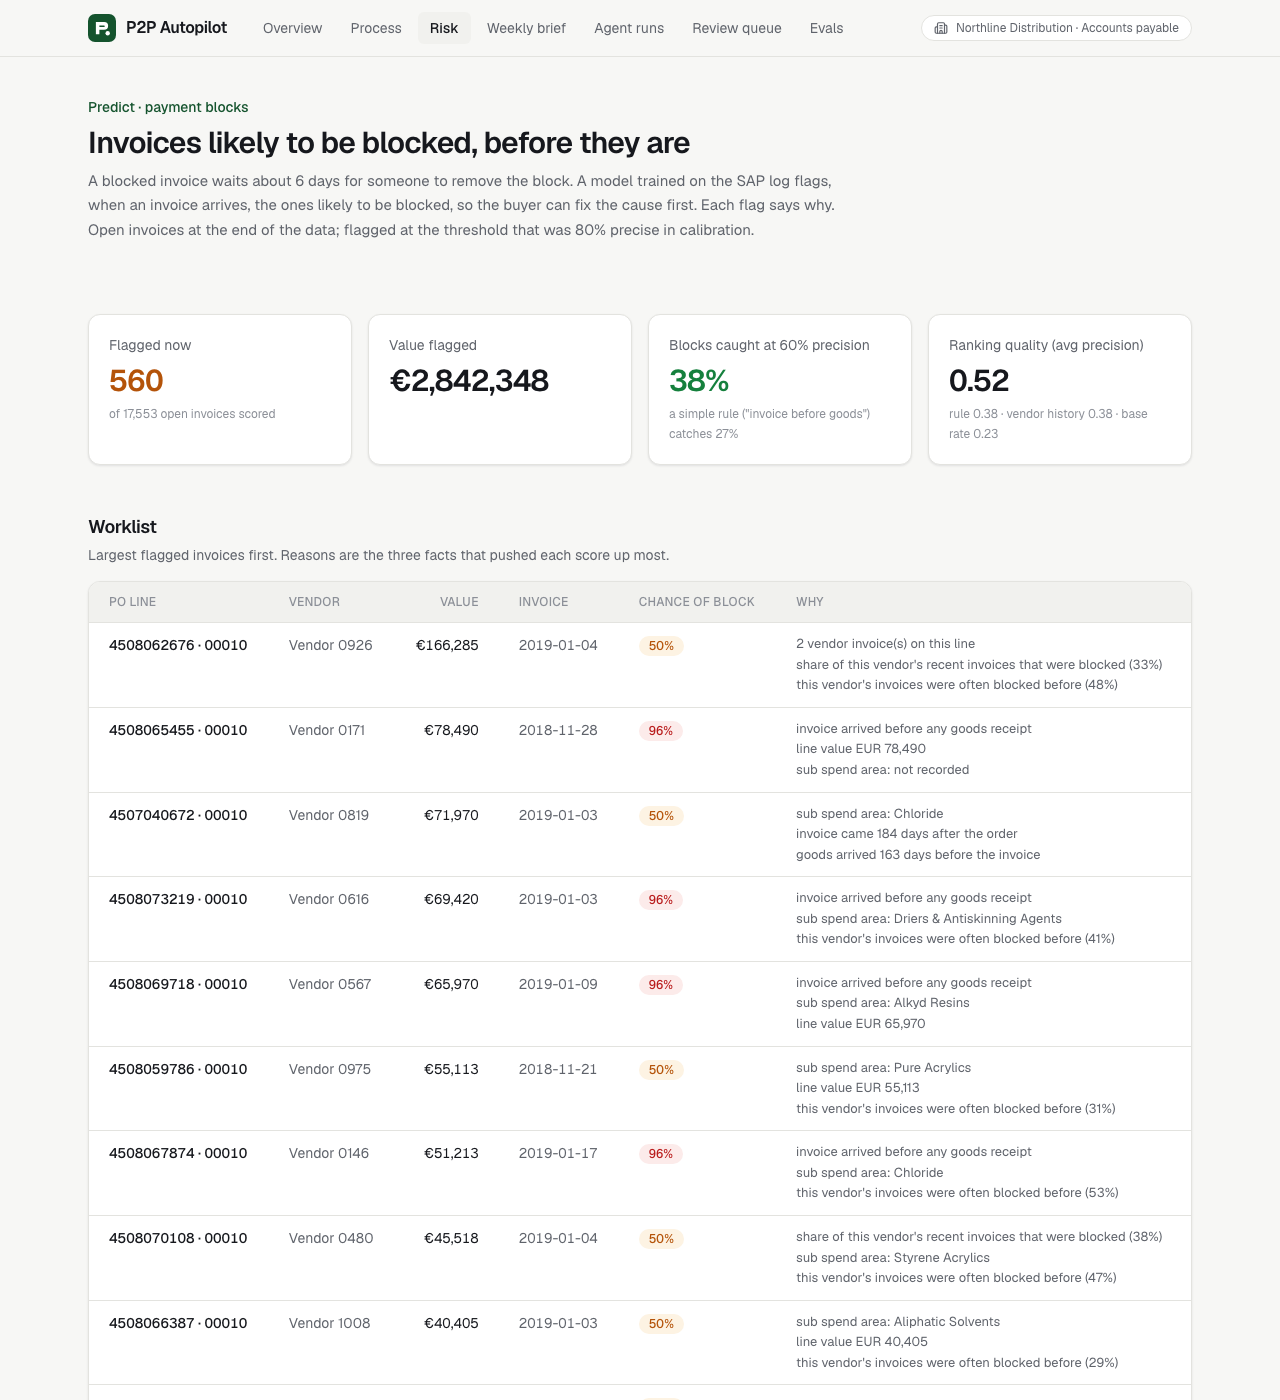
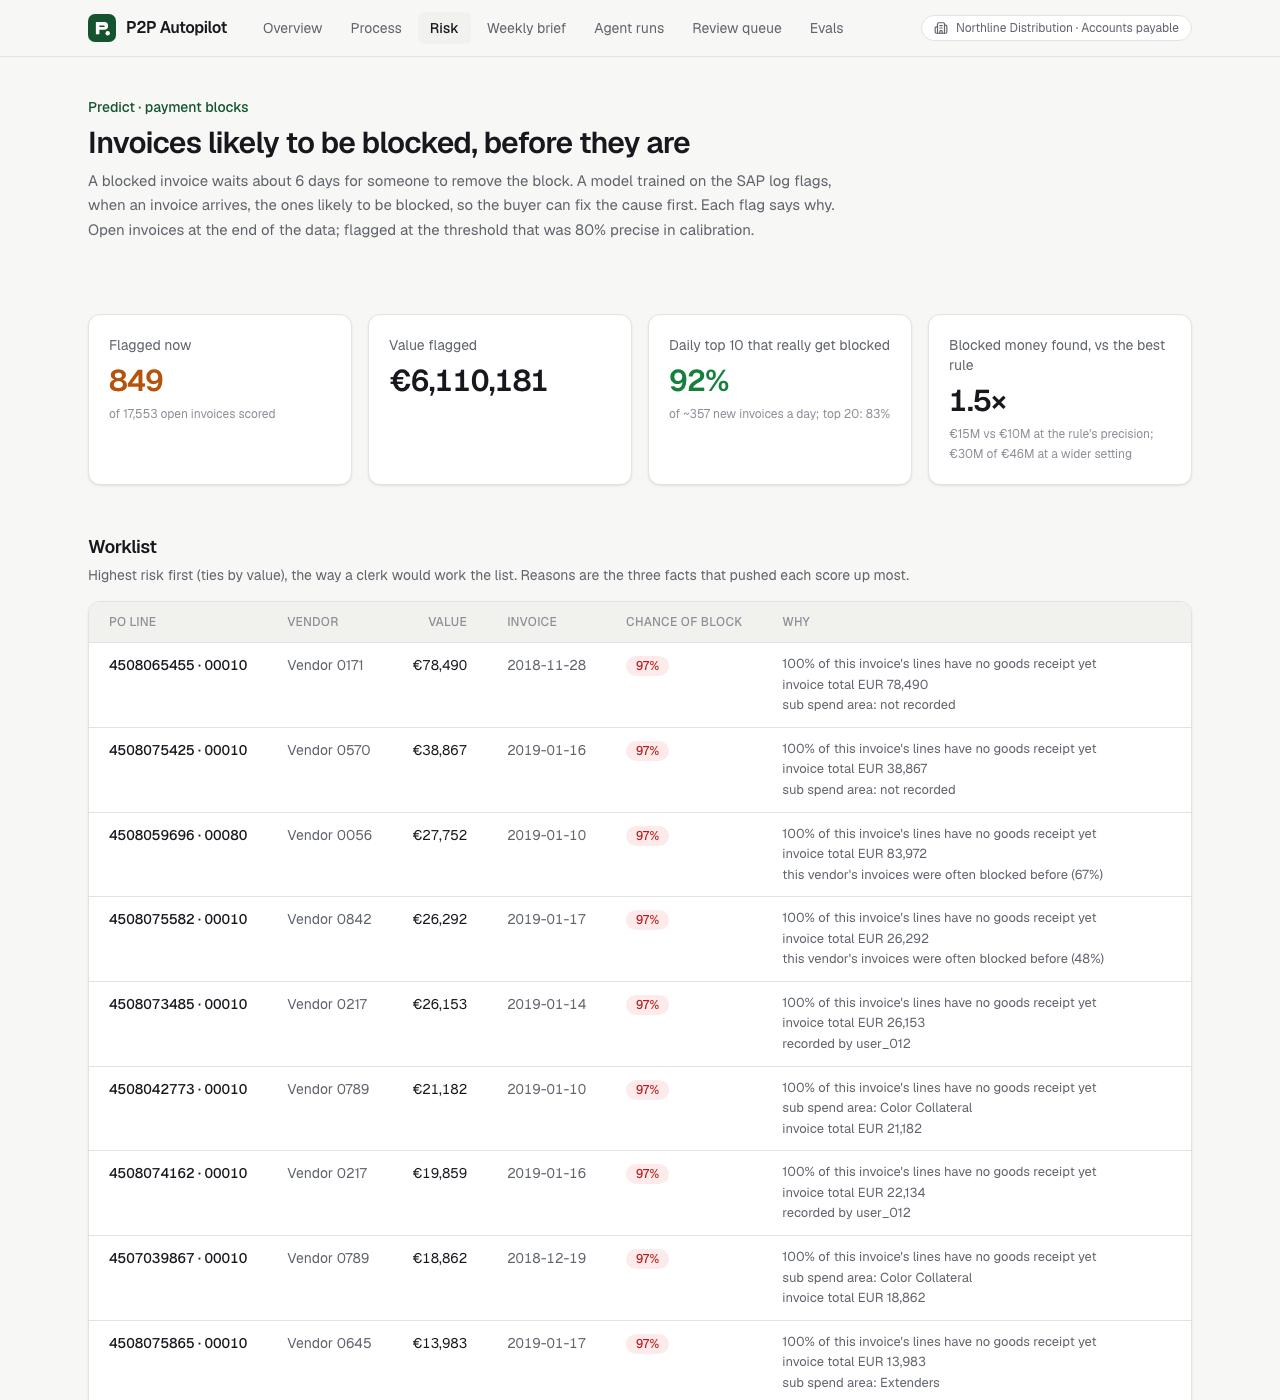
Risk page in AP's units (daily top 10, blocked EUR vs rule); worklist ranked by risk

diff --git a/web/src/app/risk/page.tsx b/web/src/app/risk/page.tsx
@@ -26,15 +26,15 @@ export default function RiskPage() {
         <Stat label="Flagged now" value={d.summary.flagged.toLocaleString()} tone="warn"
           note={`of ${d.summary.open_scored.toLocaleString()} open invoices scored`} />
         <Stat label="Value flagged" value={eur(d.summary.eur_flagged)} />
-        {m && <Stat label="Blocks caught at 60% precision" value={pct(m.model["at_precision_0.6"].recall)} tone="ok"
-          note={`the best rule ("a line on the invoice has no goods yet") catches ${pct(m.rule_invoice_before_gr["at_precision_0.6"].recall)}`} />}
-        {m && <Stat label="Ranking quality (avg precision)" value={m.model.avg_precision.toFixed(2)}
-          note={`rule ${m.rule_invoice_before_gr.avg_precision.toFixed(2)} · vendor history ${m.vendor_rate.avg_precision.toFixed(2)} · base rate ${m.base_rate.toFixed(2)}`} />}
+        {m?.business && <Stat label="Daily top 10 that really get blocked" value={pct(m.business.daily_top10_right)} tone="ok"
+          note={`of ~${Math.round(m.business.invoices_per_day)} new invoices a day; top 20: ${pct(m.business.daily_top20_right)}`} />}
+        {m?.business && <Stat label="Blocked money found, vs the best rule" value={`${(m.business.eur_model_strict / m.business.eur_rule).toFixed(1)}×`}
+          note={`${eur(m.business.eur_model_strict, true)} vs ${eur(m.business.eur_rule, true)} at the rule's precision; ${eur(m.business.eur_model_wide, true)} of ${eur(m.business.eur_blocked_total, true)} at a wider setting`} />}
       </div>
 
       <section>
         <h2 className="text-lg font-semibold tracking-tight">Worklist</h2>
-        <p className="mb-4 mt-1 text-sm text-muted">Largest flagged invoices first. Reasons are the three facts that pushed each score up most.</p>
+        <p className="mb-4 mt-1 text-sm text-muted">Highest risk first (ties by value), the way a clerk would work the list. Reasons are the three facts that pushed each score up most.</p>
         <Card className="overflow-hidden">
           <div className="overflow-x-auto">
             <table className="w-full text-sm">

diff --git a/web/src/lib/api.ts b/web/src/lib/api.ts
@@ -204,7 +204,9 @@ export type Risk = {
   summary: { open_scored: number; flagged: number; eur_flagged: number };
   items: RiskItem[];
   model: { question: string; test_window: string; test_rows: number; base_rate: number; model: Scores;
-    rule_invoice_before_gr: Scores; vendor_rate: Scores; at_po_creation: Scores } | null;
+    rule_invoice_before_gr: Scores; vendor_rate: Scores; at_po_creation: Scores;
+    business?: { daily_top10_right: number; daily_top20_right: number; invoices_per_day: number;
+      eur_model_strict: number; eur_rule: number; eur_model_wide: number; eur_blocked_total: number } } | null;
 };
 
 export type BriefSection = { title: string; sql: string; columns: string[]; rows: unknown[][] };

diff --git a/src/legacy_portal/process/api.py b/src/legacy_portal/process/api.py
@@ -59,7 +59,7 @@ def risk(limit: int = 50):
                          "round(sum(value_eur) FILTER (WHERE flagged)) AS eur_flagged FROM m_block_risk")[0],
         "items": _rows("SELECT case_id, vendor, round(value_eur, 2) AS eur, invoice_recorded::VARCHAR AS "
                        "invoice_recorded, p_block, reasons FROM m_block_risk WHERE flagged "
-                       "ORDER BY value_eur DESC LIMIT ?", [min(max(limit, 1), 500)]),
+                       "ORDER BY p_block DESC, value_eur DESC LIMIT ?", [min(max(limit, 1), 500)]),
         "model": json.loads(card_path.read_text()) if card_path.exists() else None,
     }
 
